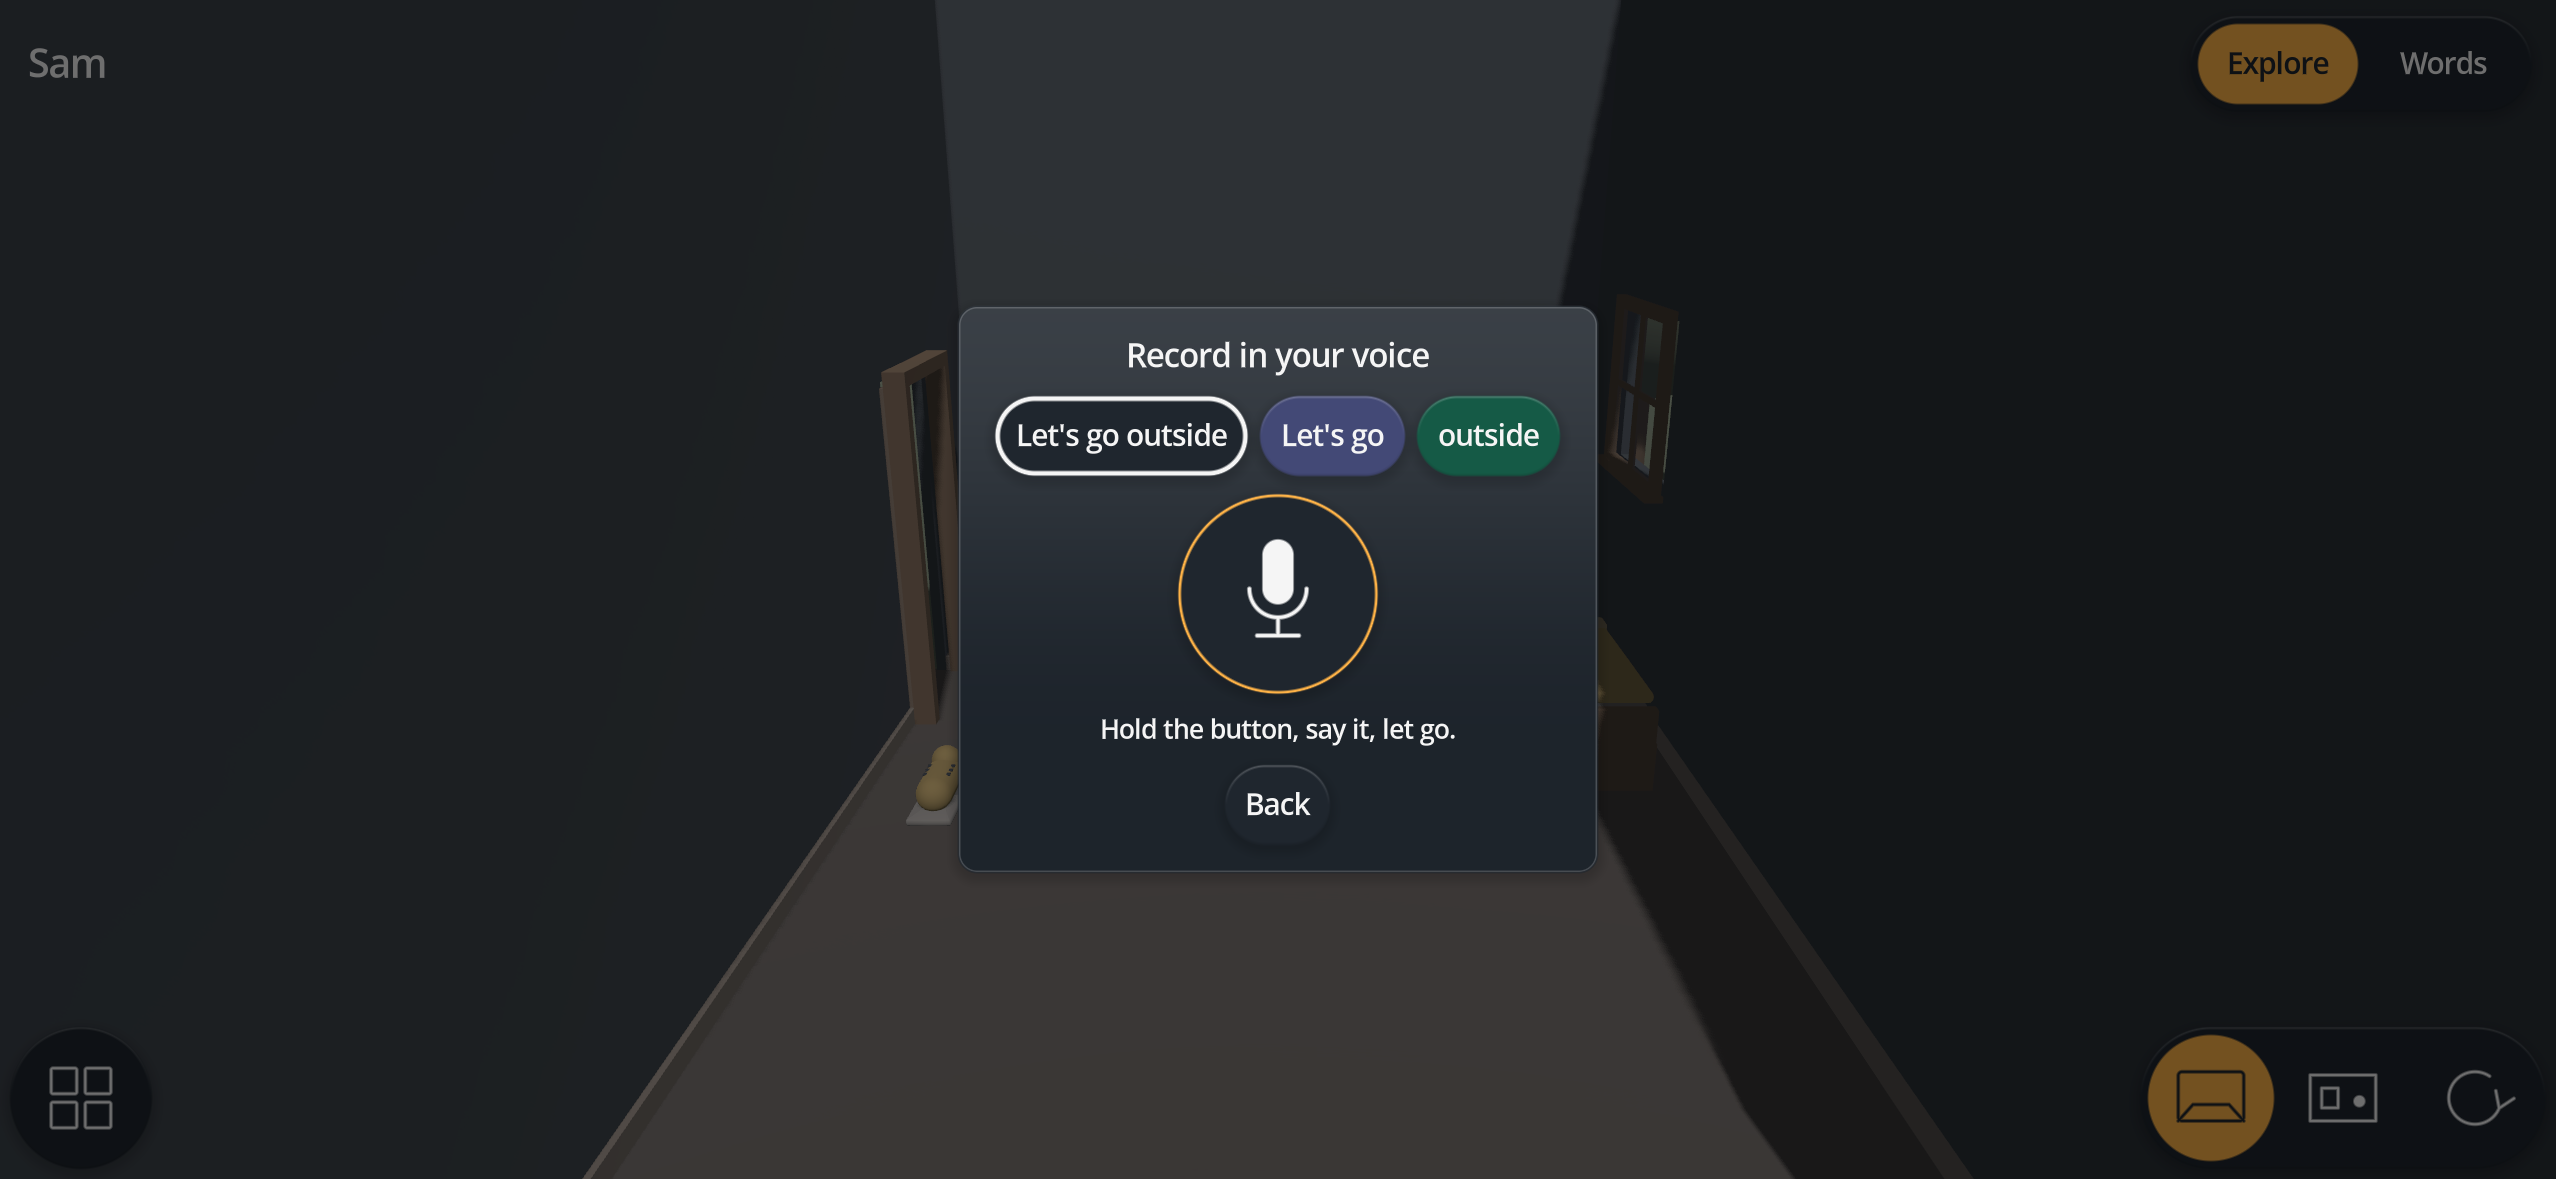
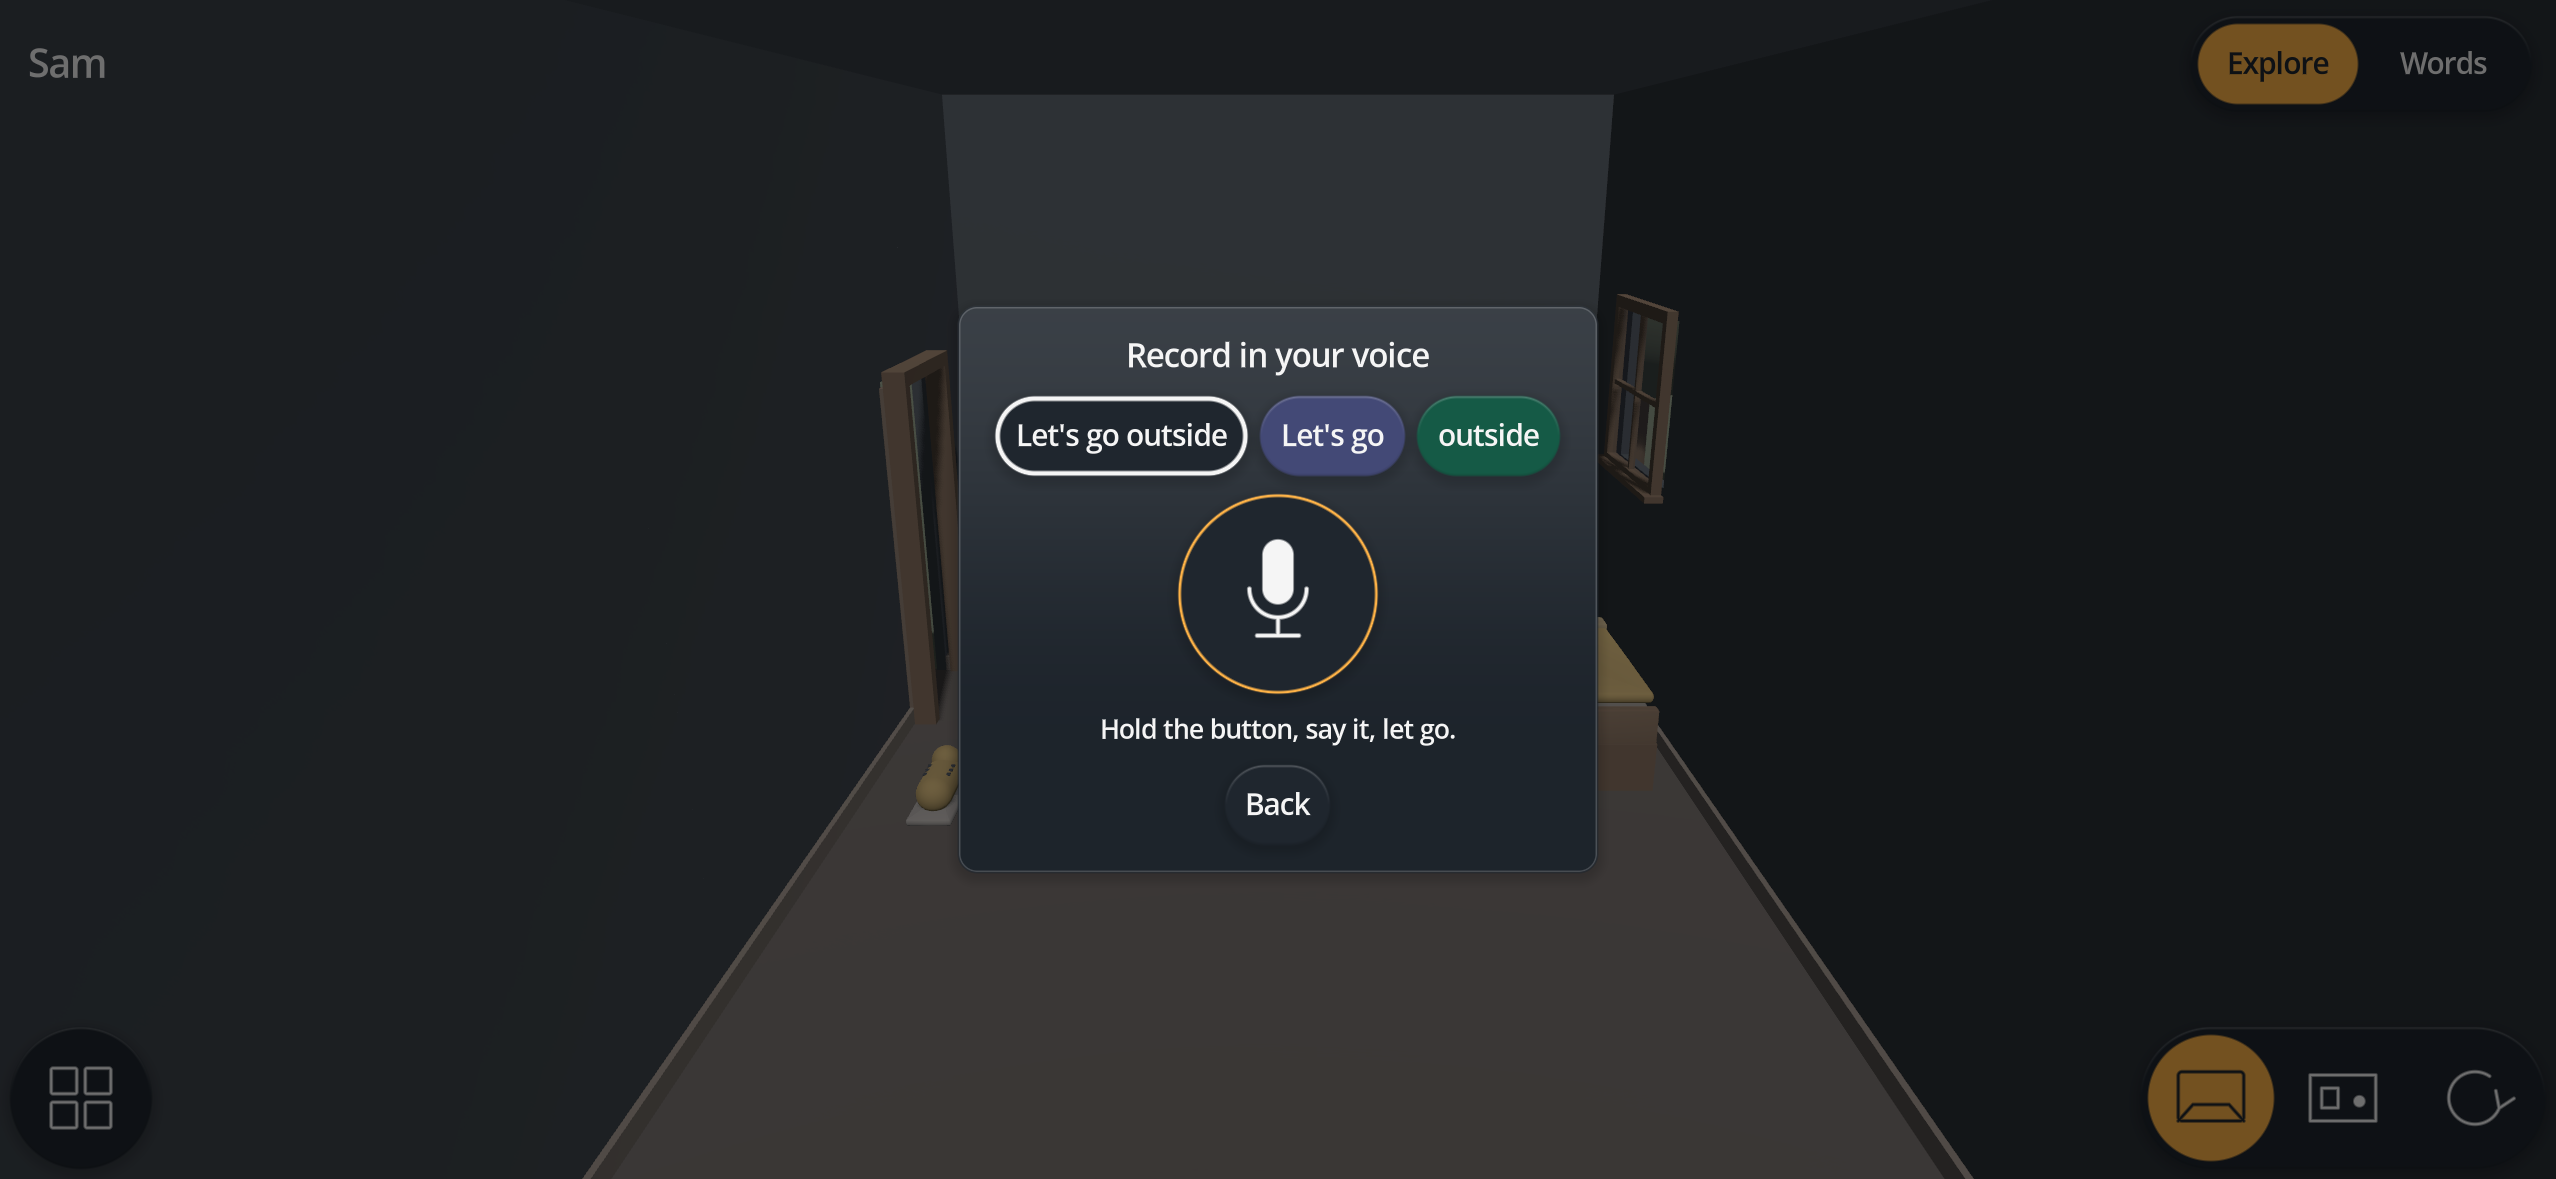
fix(rooms) keep walls enclosed and enable Tilt in every starter room

diff --git a/docs/geometry.md b/docs/geometry.md
@@ -23,15 +23,17 @@ defined by door and window recipes. Each `Room` supplies its interior `width`, `
 - The bathroom's `privacy_window` has an opaque, fluted pane. Ordinary windows remain transparent.
 - `dining_table` has a lower top than the bedside `table`, with chairs placed facing it.
 
-The floor is `y = 0`, the back wall is at `-Z`, the open front faces `+Z`. The drawn shell is bigger than the
-box: the floor and the side walls run `APRON` past the open front toward the camera, and every wall rises
-`WALL_RISE` past the room's height, so the world reaches every edge of the screen instead of stopping at the
-box. Spots and the camera's framing use the box; only the shell uses the apron and the rise. A spot's `x`, `y` and `height`
-are fractions of this box. `RoomSpace.place` turns a spot into a
-transform: a floor spot stands at `x` across and `y` back to front; a wall spot hangs on its wall at `x` along
-it with its base at `height`, turned to face into the room. A wall hides while the camera stands outside it
-(`RoomSpace.wall_hidden`). A front wall and a ceiling show only while the camera is inside the box
-(`RoomSpace.inside`), which is Tilt's case; neither casts a shadow, so the sun still reaches the floor.
+The floor is `y = 0`, the back wall is at `-Z`, and the front faces `+Z`.
+
+- The back and side walls stay in place in every view.
+- The front wall and ceiling extend beyond the effective camera position in Front and Top
+  (`RoomSpace.shell_end`). The floor, side walls and baseboards extend with them.
+- Tilt uses the authored enclosure. All four walls have baseboards.
+- Shell surfaces receive furniture shadows but do not cast shadows. View changes cannot create shadows
+  from an exposed wall edge.
+- Openings remain cut through the authored walls; the exterior is visible only through doors and windows.
+- Spots and camera framing use the authored dimensions. A spot's `x`, `y` and `height` are fractions of
+  this box. `RoomSpace.place` turns them into a transform, with wall objects facing inward.
 
 Colors come from the style preset: `floor_color`, `wall_color`, and for the objects `wood`, `cloth`, `metal`,
 `glass`, `water` beside the existing `accent`, `surface` and `text`.
@@ -125,10 +127,8 @@ range always includes rest, so a zoom never jumps the frame. A pinch zooms about
 (`zoom_about`). Tilt stands at `RoomSpace.tilt_origin`, the room's center at eye height, raised over any
 floor object under it. Its yaw is free, its pitch is clamped (`clamp_tilt`), and its zoom is a field-of-view
 change (`tilt_fov`). Its resting view spans `TILT_DIAGONAL_DEG` corner to corner on any screen shape, and is
-the widest it goes. The camera is inside the box, so `RoomSpace.wall_hidden` keeps every wall in place, and
-a front wall and a ceiling show whenever the camera is inside (`RoomSpace.inside`). Neither casts a shadow. A
-moved view returns to Front after `RoomView.IDLE_RESET_SECONDS` with nothing touched. At motion NONE a view
-change is a cut.
+the widest it goes. The shell encloses the camera throughout view transitions. A moved view returns to
+Front after `RoomView.IDLE_RESET_SECONDS` with nothing touched. At motion NONE a view change is a cut.
 
 Input rules (`RoomView._gui_input`):
 

diff --git a/docs/profiles.md b/docs/profiles.md
@@ -137,6 +137,8 @@ profile and records its id in `scenes`:
 ### Updating a room
 
 - Opening a profile refreshes every held scene to its shipped geometry, including when launch reopens the last profile.
+- All starter rooms offer Front, Top and Tilt. Opening an existing profile upgrades starter rooms saved with
+  the old Front/Top setting. Fixed cameras and custom rooms keep their settings.
 - `Starter.update_layout` replaces room dimensions and existing object placement, size and kind.
 - Missing objects are added. Their phrases reuse the bank when available.
 - Existing phrase assignments, recordings, scene stages and custom objects remain unchanged.
